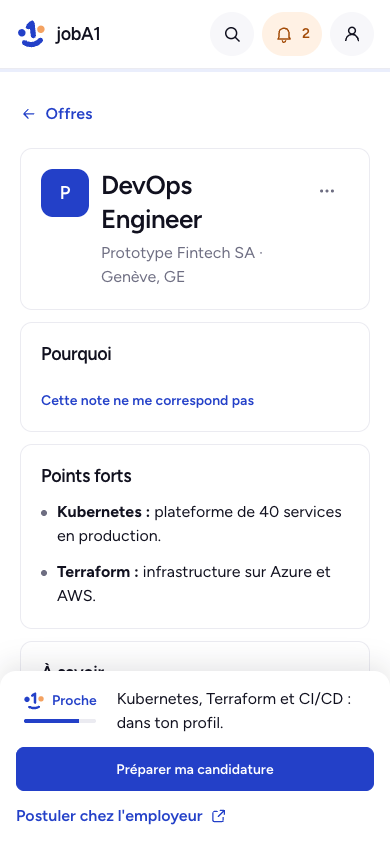
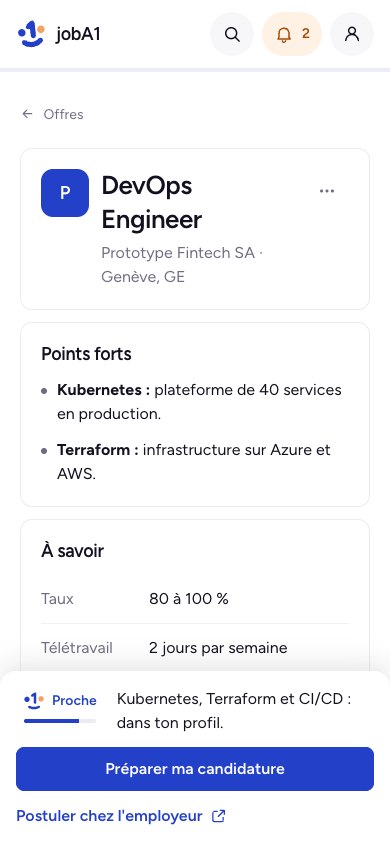
fix(fiche): correction de la note dans « ⋯ », boutons du panneau à taille normale, retour gris

diff --git a/frontend/src/components/OfferDetail.vue b/frontend/src/components/OfferDetail.vue
@@ -8,6 +8,7 @@ import { expiredText, gapSkill, plural, rateText, remoteText, sourceLabel } from
 import type { IconName } from "../icons";
 import ActionBar from "./ActionBar.vue";
 import AppIcon from "./AppIcon.vue";
+import BottomSheet from "./BottomSheet.vue";
 import CompanyLogo from "./CompanyLogo.vue";
 import DisclosureRow from "./DisclosureRow.vue";
 import ContactsPanel from "./ContactsPanel.vue";
@@ -205,6 +206,17 @@ function pointParts(text: string): { key: string; rest: string } {
 // Sous 600 px, le panneau de commande (planche « Tri et panneau de commande ») : la note et son
 // pourquoi sur une ligne, « Préparer ma candidature », « Postuler chez l'employeur » en lien.
 const { phone: narrow } = useNarrow();
+// Sur téléphone, avec le panneau, « Cette note ne me correspond pas » passe dans « ⋯ » et s'ouvre dans
+// une feuille du bas ; la carte « Pourquoi » ne reste que pour le niveau ou une réserve sur la note.
+const withBar = computed(() => narrow.value && props.offer.status !== "applied");
+const scored = computed(() => props.offer.score !== null && props.offer.score !== undefined);
+const correcting = ref(false);
+const whyCard = computed(() => {
+  const o = props.offer;
+  if (!(o.summary_role || o.score_error || o.why)) return false;
+  if (!withBar.value) return true;
+  return !!o.level || !!scoreNote.value || !!o.summary_partial || !(o.summary_role || o.why);
+});
 const strengths = computed(() => (props.offer.strengths ?? []).slice(0, POINTS_MAX));
 const gaps = computed(() => (props.offer.gaps ?? []).slice(0, POINTS_MAX));
 // Les annonces d'origine qui ne sont pas déjà le bouton « Postuler » (docs/45 : pas de doublon).
@@ -250,6 +262,9 @@ const menuItems = computed<MoreMenuItem[]>(() => {
         ? { label: "Pas expirée", test: "not-expired", icon: "refresh", run: () => emit("expiry", false) }
         : { label: "Signaler comme expirée", test: "flag-expired", icon: "alert", run: () => emit("expiry", true) },
     );
+  }
+  if (withBar.value && scored.value) {
+    items.push({ label: "Cette note ne me correspond pas", test: "score-correction-menu", icon: "star", run: () => (correcting.value = true) });
   }
   if (assistant.available.value) {
     items.push({ label: "Demander à l'assistant", test: "ask-assistant", icon: "ai", run: askAssistant });
@@ -432,7 +447,21 @@ watch(
       </div>
     </section>
 
-    <ActionBar v-if="narrow && offer.status !== 'applied'">
+    <BottomSheet
+      v-if="withBar && scored"
+      :open="correcting"
+      title="Cette note ne me correspond pas"
+      data-test="score-correction-sheet"
+      @close="correcting = false"
+    >
+      <ScoreCorrection
+        :offer-id="offer.id"
+        start-open
+        @changed="correcting = false; emit('changed')"
+        @cancel="correcting = false"
+      />
+    </BottomSheet>
+    <ActionBar v-if="withBar">
       <div
         v-if="offer.score !== null && offer.score !== undefined"
         class="pick-score"
@@ -448,7 +477,7 @@ watch(
       </div>
       <RouterLink
         :to="`/candidatures/offres/${offer.id}/preparer`"
-        class="button-link primary-link"
+        class="button-link primary-link bar-main"
         data-test="prepare"
       >
         {{ offer.status === "preparing" ? "Reprendre la lettre" : "Préparer ma candidature" }}
@@ -465,14 +494,14 @@ watch(
 
     <!-- Pourquoi : la note, la phrase, « Cette note ne me correspond pas ». -->
     <section
-      v-if="offer.summary_role || offer.score_error || offer.why"
+      v-if="whyCard"
       class="detail-card"
       data-test="section-for-you"
     >
       <h3>Pourquoi</h3>
       <template v-if="offer.summary_role || offer.why">
         <div
-          v-if="offer.score !== null && offer.score !== undefined && !(narrow && offer.status !== 'applied')"
+          v-if="offer.score !== null && offer.score !== undefined && !withBar"
           class="detail-note"
           data-test="ai"
         >
@@ -490,7 +519,7 @@ watch(
           class="score-why"
           data-test="score-why"
         >
-          <p v-if="offer.why && !(narrow && offer.status !== 'applied')">
+          <p v-if="offer.why && !withBar">
             {{ offer.why }}
           </p>
           <p
@@ -512,7 +541,7 @@ watch(
         </p>
         <!-- « Cette note ne me correspond pas » (docs/114). -->
         <ScoreCorrection
-          v-if="offer.score !== null && offer.score !== undefined"
+          v-if="scored && !withBar"
           :offer-id="offer.id"
           @changed="emit('changed')"
         />

diff --git a/frontend/src/components/ScoreCorrection.vue b/frontend/src/components/ScoreCorrection.vue
@@ -8,8 +8,9 @@ import { offerUndo } from "../composables/useUndo";
 // ou trop basse, pourquoi) ; puis un bloc de profil à relire, ou un critère en un clic. Rien
 // n'est appris en cachette : la correction passe par un bloc visible dans Profil, ou par un
 // critère. Envoyée au bout de 6 secondes, sauf « Annuler ».
-const props = defineProps<{ offerId: number }>();
-const emit = defineEmits<{ changed: [] }>();
+// `startOpen` : les deux questions tout de suite (dans la feuille du bas ouverte par « ⋯ », téléphone).
+const props = withDefaults(defineProps<{ offerId: number; startOpen?: boolean }>(), { startOpen: false });
+const emit = defineEmits<{ changed: []; cancel: [] }>();
 
 type Direction = "high" | "low";
 type Reason =
@@ -43,7 +44,7 @@ const REASONS: Record<Direction, { value: Reason; label: string }[]> = {
 const KIND_LABEL = { preference: "Préférence", redhibitoire: "Rédhibitoire" };
 
 const saved = ref<Saved | null>(null);
-const open = ref(false);
+const open = ref(props.startOpen);
 const direction = ref<Direction | null>(null);
 const reason = ref<Reason | null>(null);
 const note = ref("");
@@ -72,6 +73,12 @@ function reset(): void {
   block.value = null;
   changes.value = null;
   error.value = "";
+}
+
+// « Annuler » : on referme ; la feuille du bas qui l'entoure se ferme aussi.
+function cancel(): void {
+  reset();
+  emit("cancel");
 }
 
 watch(() => props.offerId, () => {
@@ -278,7 +285,7 @@ function applyChange(change: Change): void {
             type="button"
             class="pill"
             data-test="score-correction-cancel"
-            @click="reset"
+            @click="cancel"
           >
             Annuler
           </button>
@@ -316,7 +323,7 @@ function applyChange(change: Change): void {
         <button
           type="button"
           class="link"
-          @click="reset"
+          @click="cancel"
         >
           Annuler
         </button>
@@ -334,7 +341,7 @@ function applyChange(change: Change): void {
         type="button"
         class="link"
         data-test="score-correction-close"
-        @click="reset"
+        @click="cancel"
       >
         Annuler
       </button>

diff --git a/frontend/src/components/OfferDetail.test.ts b/frontend/src/components/OfferDetail.test.ts
@@ -222,8 +222,18 @@ describe("OfferDetail sur téléphone (planche « Tri et panneau de commande »)
     expect(bar.find("[data-test=bar-score]").text()).toContain("Kubernetes, Terraform et CI/CD : dans ton profil.");
     expect(bar.find("[data-test=prepare]").text()).toBe("Préparer ma candidature");
     expect(bar.find("[data-test=apply]").classes()).toContain("link");
-    // La note et sa phrase ne sont plus répétées dans « Pourquoi ».
-    expect(wrapper.find("[data-test=section-for-you] [data-test=ai]").exists()).toBe(false);
+    // La note et sa phrase sont dans le panneau : sans niveau, la carte « Pourquoi » disparaît, et
+    // « Cette note ne me correspond pas » passe dans « ⋯ », ouverte dans une feuille du bas.
+    expect(wrapper.find("[data-test=section-for-you]").exists()).toBe(false);
+    await wrapper.find("[data-test=more]").trigger("click");
+    await wrapper.find("[data-test=score-correction-menu]").trigger("click");
+    const sheet = wrapper.find("[data-test=score-correction-sheet]");
+    expect(sheet.find("[data-test=score-correction-open]").exists()).toBe(false);
+    expect(sheet.find(".score-correction-card").exists()).toBe(true);
+    // Avec un niveau, la carte reste, avec le niveau seul.
+    const level = await mountDetail(offer({ score: 78, why: "x", summary_role: "x", level: "above", level_detail: "" }));
+    expect(level.find("[data-test=section-for-you] [data-test=score-level]").exists()).toBe(true);
+    expect(level.find("[data-test=section-for-you] [data-test=score-correction-open]").exists()).toBe(false);
     vi.unstubAllGlobals();
   });
 

diff --git a/frontend/src/style.css b/frontend/src/style.css
@@ -2812,7 +2812,8 @@ button.icon-only:focus-visible::after { transition-delay: 0s, 0s; }
 @media (max-width: 1200px) { .detail-panel .detail-close { display: inline-flex; } }
 @media (max-width: 820px) {
   .detail-panel .detail-close { display: none; }
-  .detail-panel .detail-back { display: inline-flex; align-items: center; min-height: var(--control-h); font-size: var(--font-body); color: var(--accent); }
+  .detail-panel .detail-back { display: inline-flex; align-items: center; min-height: var(--control-h); font-size: var(--font-small); font-weight: var(--weight-regular); color: var(--muted); }
+  .detail-panel .detail-back:hover { color: var(--accent); background: none; box-shadow: none; }
 }
 /* Le retour au-dessus du logo et du titre (règles §2) ; l'entreprise et l'annonce repliées, comme
    des cartes sur le fond du détail (1.6.21). */
@@ -3590,6 +3591,8 @@ main:focus { outline: none; }
   .detail-column:has(.action-bar) .detail-panel { padding-bottom: calc(var(--action-bar-h) + var(--space-5)); }
 }
 .action-bar > .bar-link { align-self: flex-start; font-size: var(--font-body); }
+/* « Préparer ma candidature » à la taille des autres boutons du panneau (Écarter, Garder, Relancer). */
+.action-bar > .bar-main { min-height: var(--control-h); font-size: var(--font-body); }
 
 /* L'écran de tri (planche « Tri et panneau de commande ») : une colonne (--page-column) ; la
    progression en haut ; la carte comme la fiche ; « Écarter » et « Garder » chacun sur la moitié, les
